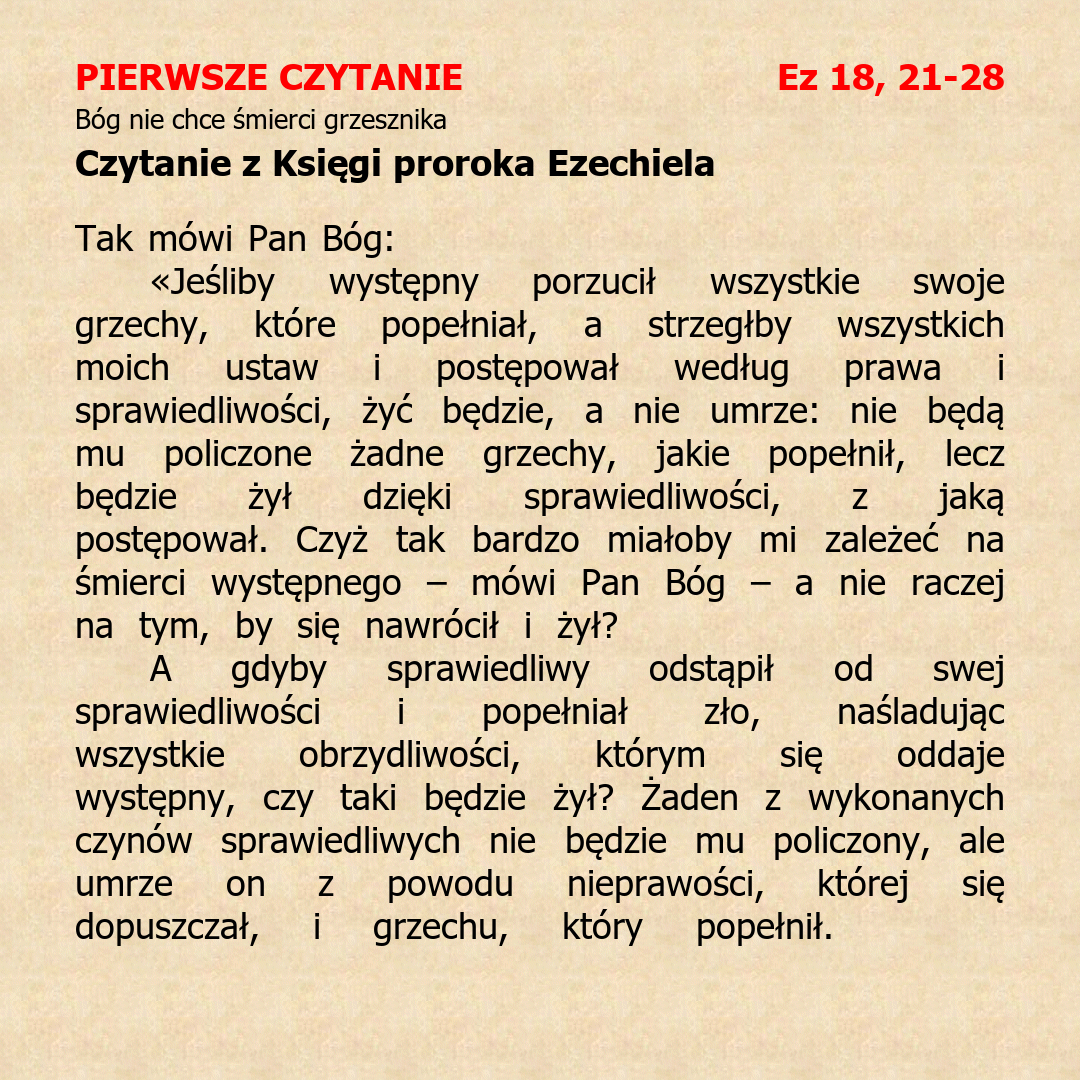
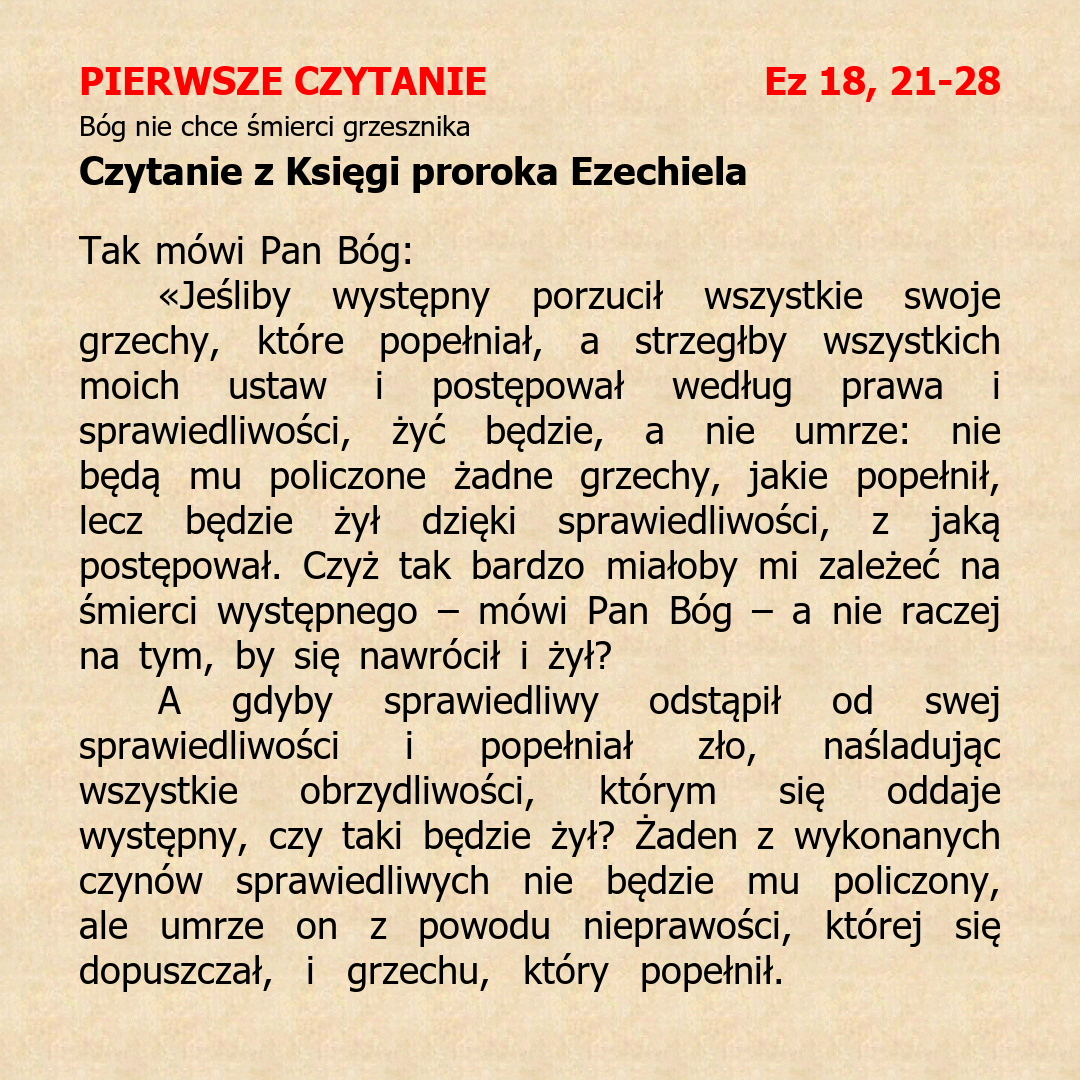
modified:   create_graphic.py 	modified:   draw_posts.py 	modified:   main.py 	modified:   web/index.html 	modified:   web/script.js

Changed region(s): [[0.0611, 0.2139, 0.9472, 0.9167], [0.0611, 0.0611, 0.7028, 0.1833], [0.7028, 0.0611, 0.9472, 0.0917]]

diff --git a/web/script.js b/web/script.js
@@ -1,5 +1,7 @@
 // let thedate = document.querySelector("#input_date").value;
- 
+let isAdding = true;
+const imageElements = [];
+
 // Onclick of the button 
 document.querySelector(".posts").onclick = async function() {   
       var thedate = document.getElementById('input_date').value;
@@ -9,15 +11,23 @@ document.querySelector(".posts").onclick = async function() {
       // eel.draw_post()(path => console.log('Got this from Python: ' + path));
       // console.log($("#input_date").val());                    
       // !!!!!!!!!!!! add retured graphic to the html 
-      console.log(box)
-      for (let i = 1; i < box.length; i++) {
-        imageElement = document.createElement('img'); 
-        imageElement.src = box[0] + box[i]; 
-        console.log(imageElement.src)
-        imageElement.width="400";
-        imageElement.height="400";
-        document.body.appendChild(imageElement);     
+      console.log(box);
+      if (isAdding) {
+        for (let i = 1; i < box.length; i++) {
+          imageElement = document.createElement('img'); 
+          imageElement.src = box[0] + box[i]; 
+          console.log(imageElement.src)
+          imageElement.width="400";
+          imageElement.height="400";
+          document.body.appendChild(imageElement);  
+          imageElements.push(imageElement);   
+          }
+        } else {
+          // Remove all previously added elements
+          imageElements.forEach(element => element.remove());
+          imageElements.length = 0;
         }
+        isAdding = !isAdding;
       }
 
 document.querySelector(".english_readings").onclick = async function() {   

diff --git a/web/index.html b/web/index.html
@@ -64,7 +64,7 @@
 
     <h1>Cyber Bible</h1> 
     <input type="date" id="input_date" name="creation_date" />
-    <input type="number" id="verse_break" name="verse" min="1" value="6" />
+    <input type="number" id="verse_break" name="verse" min=0 value=0 />
     <button class="posts">Create post</button> 
     <button class="english_readings">English readings</button> 
     <button class="polish_readings">Polish readings</button>

diff --git a/create_graphic.py b/create_graphic.py
@@ -55,7 +55,6 @@ def draw_post(thedate, verse_break):
             content_dic[cut_points[0]] = staging_list
 
     content_dic 
-    
 
     if 'EWANGELIA KRÓTSZA' in content_list:
         content_dic['EWANGELIA KRÓTSZA'].insert(1, content_dic['EWANGELIA DŁUŻSZA'][1])
@@ -93,9 +92,10 @@ def draw_post(thedate, verse_break):
 
 # def readings_creation():
     min_font_before_pagination = 30
-    pagination_font_size = 36
+    pagination_font_size = 44
 
     posts_list = []
+
     for text in content_dic.keys():
     # .keys():
     # ['PIERWSZE CZYTANIE']:
@@ -110,18 +110,24 @@ def draw_post(thedate, verse_break):
             while returned['drawn_y'] > image_size - 20:
                 if font_size < min_font_before_pagination:
                     pagination_dic = {}
+                    if verse_break == 0:
+                        verse_break = round((len(content_dic[f'{text}']) - 3) / 2 + 3)
                     pagination_dic[f'{text} cz.1'] = content_dic[f'{text}'][:verse_break]
                     pagination_dic[f'{text} cz.1'].insert(0, f'{text}' )
                     pagination_dic[f'{text} cz.2'] = content_dic[f'{text}'][verse_break:]
-                    
-                    returned = draw_text_pagination_first(out, pagination_dic[f'{text} cz.1'], size_x_left, size_y, pagination_font_size)
-                    returned['picture'].save(current_path + f'{text}1.png')
-                    posts_list.append(f'{text}1.png')
+                    returned_1 = draw_text_pagination_first(out, pagination_dic[f'{text} cz.1'], size_x_left, size_y, pagination_font_size)
+                    returned_2 = draw_text_pagination_second(out, pagination_dic[f'{text} cz.2'], size_x_left, size_y, pagination_font_size)
 
-                    returned = draw_text_pagination_second(out,  pagination_dic[f'{text} cz.2'], size_x_left, size_y, pagination_font_size)
-                    returned['picture'].save(current_path + f'{text}2.png')
-                    posts_list.append(f'{text}2.png')
-
+                    while returned_1['drawn_y'] > image_size - 20 or returned_2['drawn_y'] > image_size - 20:
+                        pagination_font_size -= 1
+                        returned_1 = draw_text_pagination_first(out, pagination_dic[f'{text} cz.1'], size_x_left, size_y, pagination_font_size)
+                        returned_2 = draw_text_pagination_second(out, pagination_dic[f'{text} cz.2'], size_x_left, size_y, pagination_font_size)
+                    else:
+                        returned_1['picture'].save(current_path + f'{text}1.png')
+                        returned_2['picture'].save(current_path + f'{text}2.png')
+                        posts_list.append(f'{text}1.png')
+                        posts_list.append(f'{text}2.png')
+                        
                     break
                 else:
                     font_size -= 1
@@ -130,76 +136,15 @@ def draw_post(thedate, verse_break):
             else:
                 returned['picture'].save(current_path + f'{text}.png')
                 posts_list.append(f'{text}.png')
-            
-    font_size_psalm = 30
-    font_size_small_psalm = int(0.75 * font_size_psalm)
 
-    tahoma = r"C:\Windows\Fonts\tahoma.ttf"
-    tahoma_bold = r"C:\Windows\Fonts\tahomabd.ttf"
-
-    fnt_psalm = ImageFont.truetype(tahoma, font_size_psalm) 
-    fnt_b_psalm = ImageFont.truetype(tahoma_bold, font_size_psalm)
-    fnt_s_psalm = ImageFont.truetype(tahoma, font_size_small_psalm)
-
-
-    # content_dic["PSALM RESPONSORYJNY"].insert(16, 'Refren')
-    content_dic["PSALM RESPONSORYJNY"]
-
-    if len(content_dic["PSALM RESPONSORYJNY"][0]) > 30:
-        content_dic["PSALM RESPONSORYJNY"][0] = content_dic["PSALM RESPONSORYJNY"][0].split(',')[0]
-        
-    # del content_dic["PSALM RESPONSORYJNY"][-2]
-    # content_dic["PSALM RESPONSORYJNY"].insert(-1, 'pójdźcie, narody, oddajcie pokłon Panu,')
-    # content_dic["PSALM RESPONSORYJNY"].insert(-1, 'bo wielka światłość zstąpiła dzisiaj na ziemię.')
-    content_dic["PSALM RESPONSORYJNY"]
-
-    out_psalm = copy.deepcopy(out)
-    draw = ImageDraw.Draw(out_psalm) 
-
-    y_distance = font_size_psalm * 0.95
-    y_further_distance = font_size_psalm * 0.7
-    x_distance = font_size_psalm * 2
-
-    draw.text((x_distance, y_further_distance*2), "PSALM RESPONSORYJNY", font=fnt_b_psalm, fill="red", anchor='lm')
-    draw.text((1000, y_further_distance*2), content_dic["PSALM RESPONSORYJNY"][0], font=fnt_b_psalm, fill="red", anchor='rm')
-    draw.text((x_distance, y_further_distance*4), "Refren: ", font=fnt_b_psalm, fill="red", anchor='lm')
-    draw.text((x_distance*3, y_further_distance*4), content_dic["PSALM RESPONSORYJNY"][1][7:], font=fnt_b_psalm, fill="black", anchor='lm')
-
-    y_text = y_further_distance*6
-    for count, element in enumerate(content_dic["PSALM RESPONSORYJNY"][2:]):
-
-        if "Refren" in element:
-            y_text += y_further_distance
-            draw.text((x_distance, y_text), "Refren: ", font=fnt_b_psalm, fill="red", anchor='lm')
-            draw.text((x_distance*3, y_text), content_dic["PSALM RESPONSORYJNY"][1][7:], font=fnt_b_psalm, fill="black", anchor='lm')
-            y_text += y_further_distance
-        elif "ŚPIEW PRZED EWANGELIĄ" in element:
-            acclamation = content_dic["PSALM RESPONSORYJNY"][count+2:]
-            # if 'ŚPIEW' in acclamation[0]:
-            #     acclamation.insert(1, '')
-            # print(acclamation)
-            draw.text((x_distance, y_text), "AKLAMACJA PRZED EWANGELIĄ", font=fnt_b_psalm, fill="red", anchor='lm')
-            draw.text((1000, y_text), acclamation[1], font=fnt_b_psalm, fill="red", anchor='rm')
-            draw.text((x_distance, y_text+y_further_distance*2), "Aklamacja: ", font=fnt_b_psalm, fill="red", anchor='lm')
-            draw.text((x_distance*4, y_text+y_further_distance*2), acclamation[2][10:], font=fnt_b_psalm, fill="black", anchor='lm')
-            draw.text((x_distance*2, y_text+y_further_distance*4), acclamation[3], font=fnt_psalm, fill="black", anchor='lm')
-            draw.text((x_distance*2, y_text+y_further_distance*4+y_distance), acclamation[4], font=fnt_psalm, fill="black", anchor='lm')
-            # draw.text((x_distance*2, y_text+y_further_distance*3+y_distance), acclamation[5], font=fnt_psalm, fill="black", anchor='lm')
-
-            draw.text((x_distance, y_text+y_further_distance*6+y_distance), "Aklamacja: ", font=fnt_b_psalm, fill="red", anchor='lm') 
-            draw.text((x_distance*4, y_text+y_further_distance*6+y_distance), acclamation[5][10:], font=fnt_b_psalm, fill="black", anchor='lm')
-            break  
-    # TODO
-        elif 'albo' in element:
-            continue
-
-        else:
-            draw.text((x_distance*2, y_text), element, font=fnt_psalm, fill="black", anchor='lm')
-        y_text += y_distance
-
-    # out_psalm.show()
-    out_psalm.save(current_path + 'PSALM RESPONSORYJNY.png')
-    posts_list.append('PSALM RESPONSORYJNY.png')
+    font_size_psalm = 35
+    returned = draw_psalm(content_dic, out, font_size_psalm)
+    while returned['drawn_y'] > image_size - 20:
+        font_size -= 1
+        returned = draw_psalm(content_dic, out, font_size)
+    else:
+        returned['picture'].save(current_path + 'PSALM RESPONSORYJNY.png')
+        posts_list.append('PSALM RESPONSORYJNY.png')
     # print(posts_list)
     
     box = ['/' + str(thedate) + '/', *posts_list]

diff --git a/draw_posts.py b/draw_posts.py
@@ -229,3 +229,70 @@ def draw_text_pagination_second(out, reading_list, size_x_left, size_y, font_siz
     returned = {'drawn_y': var_y+size_y, 'picture': out_func}
 
     return returned
+
+ ### PSALM ###
+def draw_psalm(content_dic, out, font_size_psalm):         
+    tahoma = r"C:\Windows\Fonts\tahoma.ttf"
+    tahoma_bold = r"C:\Windows\Fonts\tahomabd.ttf"
+
+    fnt_psalm = ImageFont.truetype(tahoma, font_size_psalm) 
+    fnt_b_psalm = ImageFont.truetype(tahoma_bold, font_size_psalm)
+
+    # content_dic["PSALM RESPONSORYJNY"].insert(16, 'Refren')
+
+    if len(content_dic["PSALM RESPONSORYJNY"][0]) > 30:
+        content_dic["PSALM RESPONSORYJNY"][0] = content_dic["PSALM RESPONSORYJNY"][0].split(',')[0]
+        
+    # del content_dic["PSALM RESPONSORYJNY"][-2]
+    # content_dic["PSALM RESPONSORYJNY"].insert(-1, 'pójdźcie, narody, oddajcie pokłon Panu,')
+    # content_dic["PSALM RESPONSORYJNY"].insert(-1, 'bo wielka światłość zstąpiła dzisiaj na ziemię.')
+
+    out_psalm = copy.deepcopy(out)
+    draw = ImageDraw.Draw(out_psalm) 
+
+    y_distance = font_size_psalm * 0.95
+    y_further_distance = font_size_psalm * 0.7
+    x_distance = font_size_psalm * 2
+
+    draw.text((x_distance, y_further_distance*2), "PSALM RESPONSORYJNY", font=fnt_b_psalm, fill="red", anchor='lm')
+    draw.text((1000, y_further_distance*2), content_dic["PSALM RESPONSORYJNY"][0], font=fnt_b_psalm, fill="red", anchor='rm')
+    draw.text((x_distance, y_further_distance*4), "Refren: ", font=fnt_b_psalm, fill="red", anchor='lm')
+    draw.text((x_distance*3, y_further_distance*4), content_dic["PSALM RESPONSORYJNY"][1][7:], font=fnt_b_psalm, fill="black", anchor='lm')
+
+    y_text = y_further_distance*6
+    for count, element in enumerate(content_dic["PSALM RESPONSORYJNY"][2:]):
+        if "Refren" in element:
+            y_text += y_further_distance
+            draw.text((x_distance, y_text), "Refren: ", font=fnt_b_psalm, fill="red", anchor='lm')
+            draw.text((x_distance*3, y_text), content_dic["PSALM RESPONSORYJNY"][1][7:], font=fnt_b_psalm, fill="black", anchor='lm')
+            y_text += y_further_distance
+            final_y_text = y_text
+        elif "ŚPIEW PRZED EWANGELIĄ" in element:
+            acclamation = content_dic["PSALM RESPONSORYJNY"][count+2:]
+            # if 'ŚPIEW' in acclamation[0]:
+            #     acclamation.insert(1, '')
+            # print(acclamation)
+            draw.text((x_distance, y_text), "AKLAMACJA PRZED EWANGELIĄ", font=fnt_b_psalm, fill="red", anchor='lm')
+            draw.text((1000, y_text), acclamation[1], font=fnt_b_psalm, fill="red", anchor='rm')
+            draw.text((x_distance, y_text+y_further_distance*2), "Aklamacja: ", font=fnt_b_psalm, fill="red", anchor='lm')
+            draw.text((x_distance*4, y_text+y_further_distance*2), acclamation[2][10:], font=fnt_b_psalm, fill="black", anchor='lm')
+            draw.text((x_distance*2, y_text+y_further_distance*4), acclamation[3], font=fnt_psalm, fill="black", anchor='lm')
+            draw.text((x_distance*2, y_text+y_further_distance*4+y_distance), acclamation[4], font=fnt_psalm, fill="black", anchor='lm')
+            # draw.text((x_distance*2, y_text+y_further_distance*3+y_distance), acclamation[5], font=fnt_psalm, fill="black", anchor='lm')
+
+            draw.text((x_distance, y_text+y_further_distance*6+y_distance), "Aklamacja: ", font=fnt_b_psalm, fill="red", anchor='lm') 
+            draw.text((x_distance*4, y_text+y_further_distance*6+y_distance), acclamation[5][10:], font=fnt_b_psalm, fill="black", anchor='lm')
+            final_y_text = y_text+y_further_distance*6+y_distance
+            break  
+    # TODO
+        elif 'albo' in element:
+            continue
+
+        else:
+            draw.text((x_distance*2, y_text), element, font=fnt_psalm, fill="black", anchor='lm')
+        y_text += y_distance
+        final_y_text=y_text
+        # out_psalm.show()
+    returned = {'drawn_y': final_y_text, 'picture': out_psalm}
+    return returned
+    

diff --git a/main.py b/main.py
@@ -1,24 +1,7 @@
-from datetime import date
-import random
 import eel 
-from random import randint 
-import requests
-from bs4 import BeautifulSoup
-from PIL import Image, ImageDraw, ImageFont
-import copy
-import textwrap
-from pathlib import Path, PureWindowsPath, WindowsPath
-from datetime import date
-import os
-
 from create_graphic import draw_text, readings_eng, readings_pol
-# from create_graphic import draw_text  
+ 
 eel.init("web")   
-
-# @eel.expose
-# def py_random():
-#     return random.random()
-
 
 # Start the index.html file 
 eel.start("index.html", size=(800, 800))
